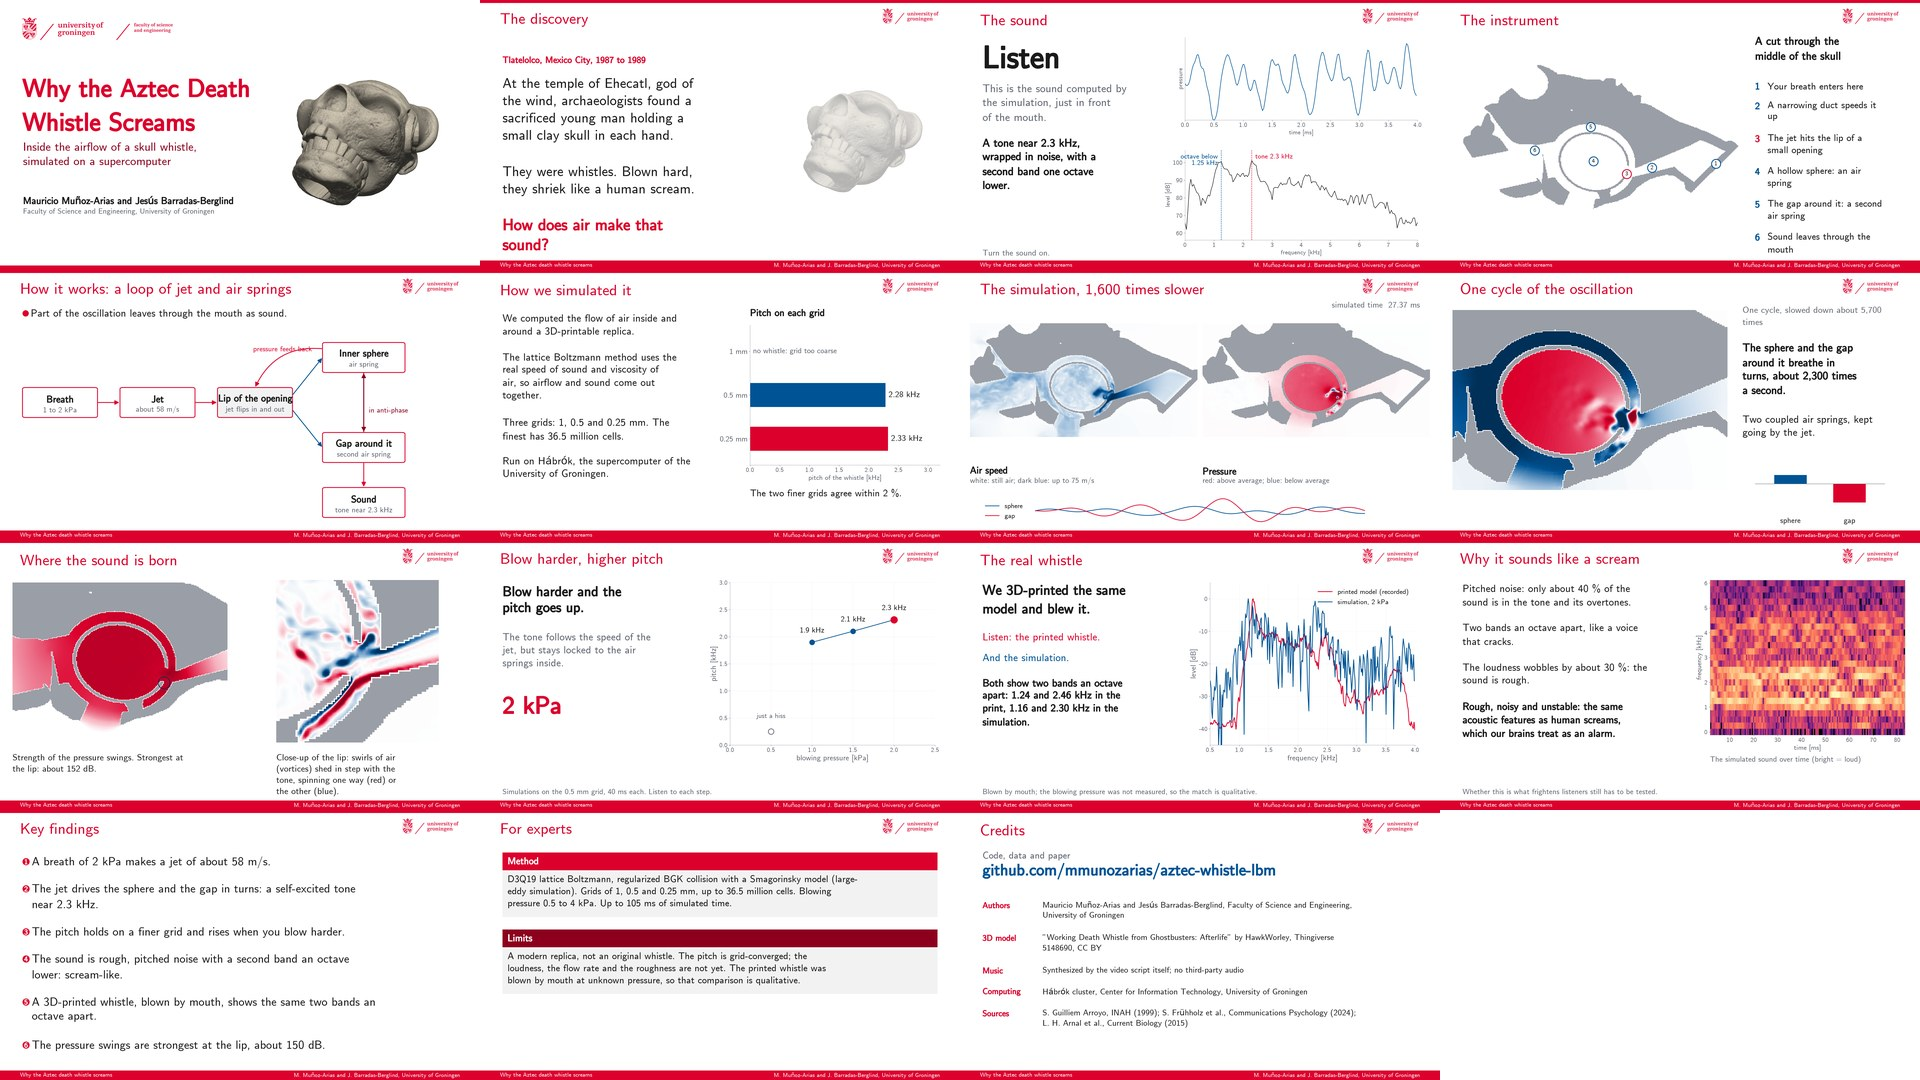
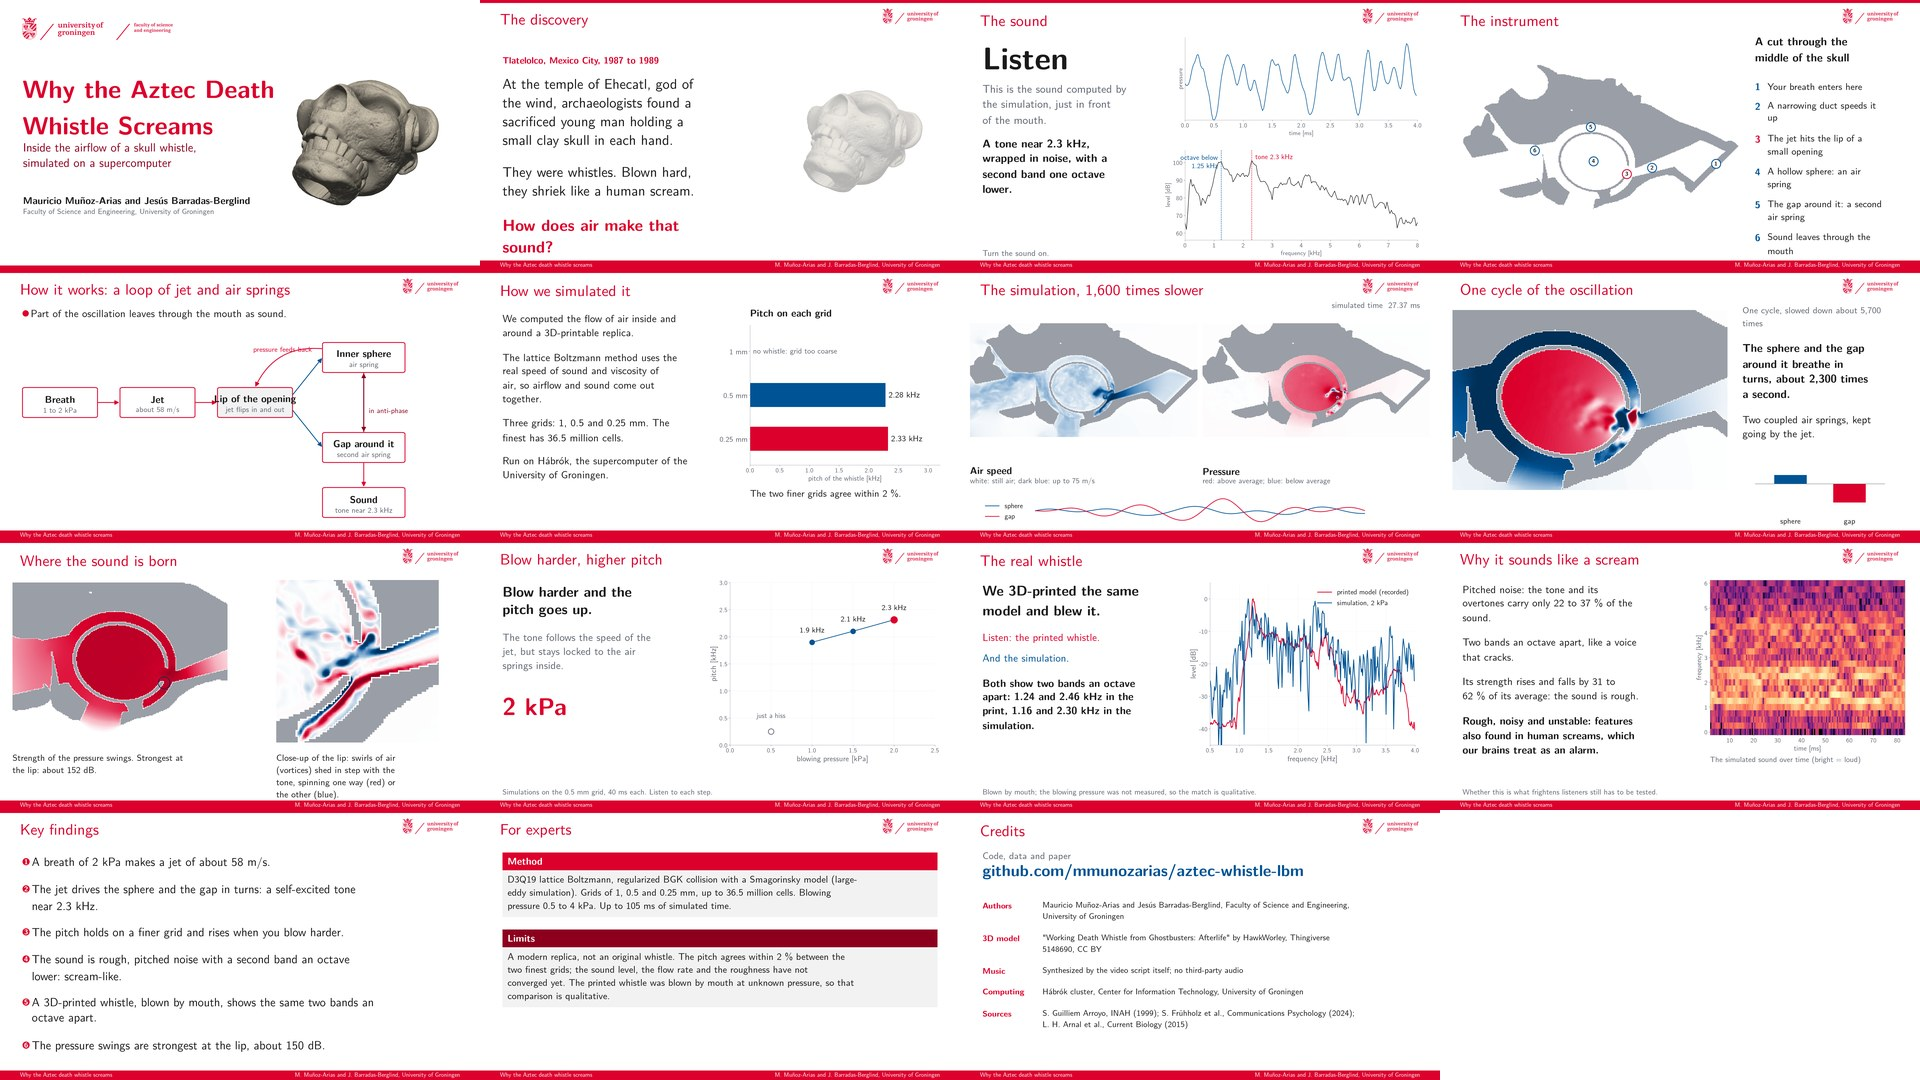
Stability-test options (plain BGK, Smagorinsky constant), video text as in the paper, font note
- code/src/02_simulate.py: --collision bgk|reg and --cs, defaults unchanged
- code/hpc/habrok_run.sh: SIMARGS passthrough
- code/video/make_video.py: sound-quality and limits text as in the paper, percent sign kept with its number
- README: how to run the stability tests of Section IV-B
- results/video: thumbnail and preview from the final render

diff --git a/code/src/02_simulate.py b/code/src/02_simulate.py
@@ -2,6 +2,7 @@
 
 Model
   * regularised BGK collision + Smagorinsky sub-grid model (Cs = 0.17)
+    (--collision bgk and --cs switch these off, for the stability test of plain BGK)
   * molecular viscosity of air (1.5e-5 m2/s), speed of sound 343 m/s, rho 1.2 kg/m3
   * lattice speed of sound mapped to the real one, so Mach number and acoustics are physical
   * pressure inlet inside the sealed mouthpiece, ramped to --dp over 0.5 ms
@@ -16,15 +17,18 @@ ap.add_argument('--case', default='orig', choices=['orig', 'sealed'])
 ap.add_argument('--time', type=float, default=10e-3, help='simulated time [s]')
 ap.add_argument('--dp', type=float, default=2000.0, help='blowing pressure [Pa]')
 ap.add_argument('--workdir', default='out')
+ap.add_argument('--collision', default='reg', choices=['reg', 'bgk'],
+                help='reg: regularized BGK (all runs of the paper); bgk: plain BGK, for the stability test')
+ap.add_argument('--cs', type=float, default=0.17, help='Smagorinsky constant; 0 switches the eddy viscosity off')
 a = ap.parse_args()
 
 g = np.load(f'{a.workdir}/geom.npz'); solid = np.ascontiguousarray(g[a.case]); inlet = g['inlet']
 x, y, z = g['x'], g['y'], g['z']; dx = float(g['dx'])
 c_phys, rho0, cs, nu_air = 343.0, 1.2, 1 / np.sqrt(3), 1.5e-5
 dt = dx * 1e-3 * cs / c_phys; ufac = c_phys / cs; pfac = rho0 * c_phys**2
-tau0 = 0.5 + 3 * nu_air * dt / (dx * 1e-3)**2; Csm = 0.17
+tau0 = 0.5 + 3 * nu_air * dt / (dx * 1e-3)**2; Csm = a.cs; BGK = a.collision == 'bgk'
 drho = a.dp / pfac; nsteps = int(a.time / dt); ramp = int(0.5e-3 / dt); save_every = max(1, round(21e-6 / dt))
-print(f'{a.case}: grid {solid.shape}, dt={dt:.3e} s, {nsteps} steps, tau0={tau0:.6f}', flush=True)
+print(f'{a.case}: grid {solid.shape}, dt={dt:.3e} s, {nsteps} steps, tau0={tau0:.6f}, collision={a.collision}, Cs={Csm}', flush=True)
 
 c = np.array([[0,0,0],[1,0,0],[-1,0,0],[0,1,0],[0,-1,0],[0,0,1],[0,0,-1],[1,1,0],[-1,-1,0],[1,-1,0],[-1,1,0],
               [1,0,1],[-1,0,-1],[1,0,-1],[-1,0,1],[0,1,1],[0,-1,-1],[0,1,-1],[0,-1,1]])
@@ -43,7 +47,7 @@ sp_visc = np.float32(0.5 * (DX_REF / dx)**2)     # extra tau = sp_visc * sponge 
 print(f'sponge: {sp} cells = {sp*dx:.1f} mm, peak strength {sponge.max():.3f}, extra-tau factor {sp_visc:.3f}', flush=True)
 
 @nb.njit(parallel=True, fastmath=True, cache=True)
-def step(f, fn, solid, inlet, sponge, sp_visc, rho_in, rho, ux, uy, uz, tau0, Csm):
+def step(f, fn, solid, inlet, sponge, sp_visc, rho_in, rho, ux, uy, uz, tau0, Csm, bgk):
     NX, NY, NZ = solid.shape
     for i in nb.prange(NX):
         fl = np.empty(19, np.float32); feq = np.empty(19, np.float32)
@@ -76,10 +80,14 @@ def step(f, fn, solid, inlet, sponge, sp_visc, rho_in, rho, ux, uy, uz, tau0, Cs
                 te = 0.5*(tau0 + np.sqrt(tau0*tau0 + 18*np.sqrt(2.0)*Csm*Csm*Q/r)) + sg*sp_visc   # Smagorinsky + sponge viscosity
                 om = 1 - 1/te
                 if isin: om = 0.0
-                for q in range(19):                                   # regularised collision
-                    aa = cx[q]*cx[q]-1/3; bb = cy[q]*cy[q]-1/3; cc = cz[q]*cz[q]-1/3
-                    f1 = w[q]*4.5*(aa*Pxx + bb*Pyy + cc*Pzz + 2*(cx[q]*cy[q]*Pxy + cx[q]*cz[q]*Pxz + cy[q]*cz[q]*Pyz))
-                    fn[q, i, j, k] = feq[q] + om*f1
+                if bgk:
+                    for q in range(19):                               # plain BGK collision (stability test only)
+                        fn[q, i, j, k] = feq[q] + om*(fl[q] - feq[q])
+                else:
+                    for q in range(19):                               # regularised collision
+                        aa = cx[q]*cx[q]-1/3; bb = cy[q]*cy[q]-1/3; cc = cz[q]*cz[q]-1/3
+                        f1 = w[q]*4.5*(aa*Pxx + bb*Pyy + cc*Pzz + 2*(cx[q]*cy[q]*Pxy + cx[q]*cz[q]*Pxz + cy[q]*cz[q]*Pyz))
+                        fn[q, i, j, k] = feq[q] + om*f1
                 rho[i, j, k] = r; ux[i, j, k] = u; uy[i, j, k] = v; uz[i, j, k] = ww
 
 f = np.empty((19,) + solid.shape, np.float32); f[:] = w[:, None, None, None]; fn = f.copy()
@@ -105,7 +113,7 @@ def save(nmax):
         x=x, y=y, z=z, names=np.array(list(P.keys())), dp=a.dp)
 for s_ in range(nsteps):
     rin = np.float32(1 + drho * min(1.0, s_ / ramp))
-    step(f, fn, solid, inlet, sponge, sp_visc, rin, rho, ux, uy, uz, np.float32(tau0), np.float32(Csm)); f, fn = fn, f
+    step(f, fn, solid, inlet, sponge, sp_visc, rin, rho, ux, uy, uz, np.float32(tau0), np.float32(Csm), BGK); f, fn = fn, f
     for q, v in enumerate(P.values()): hist[s_, q] = (rho[v] - 1) * pfac          # Pa above ambient
     hist[s_, -1] = (ux[ii]*nin[0] + uy[ii]*nin[1] + uz[ii]*nin[2]).sum() * ufac * (dx*1e-3)**2 * 1e3  # duct flow [L/s]
     if s_ % save_every == 0:

diff --git a/code/video/make_video.py b/code/video/make_video.py
@@ -105,6 +105,7 @@ def nl(s, wrap): return len(textwrap.wrap(s, wrap)) if wrap else s.count('\n') +
 def T(fig, x, y, s, size=30, color=FG, weight='normal', wrap=None, ha='left', va='top', alpha=1.0, **kw):
     """Text at pixel position (x, y) of a 1920x1080 frame, measured from the top left."""
     if wrap: s = '\n'.join(textwrap.fill(p, wrap) for p in s.split('\n'))
+    s = s.replace(' ', ' ')   # no-break space only steers the wrapping; Latin Modern draws it wider than a space
     if weight == 'bold' and not REAL_BOLD:
         kw.setdefault('path_effects', [pe.withStroke(linewidth=max(0.6, size * 0.045) * A.scale, foreground=color)]); weight = 'normal'
     return fig.text(x / 1920, 1 - y / 1080, s, fontsize=size, color=color, fontweight=weight, ha=ha, va=va, alpha=alpha,
@@ -493,7 +494,7 @@ def s05_method(mv):
         ax.set_xlabel('pitch of the whistle [kHz]', fontsize=20); [ax.spines[k].set_visible(False) for k in ('top', 'right')]
         T(fig, 1080, 150, 'Pitch on each grid', 28, FG, 'bold')
         if nb >= 3 and grid[1][1] and grid[2][1]:
-            TB(fig, 1080, 870, f'The two finer grids agree within {abs(grid[2][1]-grid[1][1])/grid[2][1]*100:.0f} %.', 28, FG, width=760)
+            TB(fig, 1080, 870, f'The two finer grids agree within {abs(grid[2][1]-grid[1][1])/grid[2][1]*100:.0f}\u00a0%.', 28, FG, width=760)
         img = grab(fig); plt.close(fig); return img
     st = [draw(n, nb) for n, nb in [(0, 0), (1, 0), (2, 0), (3, 1), (3, 2), (3, 3), (4, 3)]]
     scene(mv, 17, st, [0, 0.5, 3.0, 6.5, 8.0, 9.5, 12.5], name='Method')
@@ -653,10 +654,10 @@ def s10_scary(mv):
     dur = 19; mv.sound(loop(SND_MAIN, dur - 1.5), mv.t + 1.0, GAIN)
     x = SND_MAIN; nper = int(0.004 * SR); fs_, ts_, Sg = spectrogram(x, fs=SR, nperseg=nper, noverlap=nper * 7 // 8); keep = fs_ <= 6000
     Ld = 10 * np.log10(Sg[keep] + 1e-20)
-    pts = [f'Pitched noise: only about {round(tonal*100, -1):.0f} % of the sound is in the tone and its overtones.',
+    pts = ['Pitched noise: the tone and its overtones carry only 22 to 37\u00a0% of the sound.',
            'Two bands an octave apart, like a voice that cracks.',
-           f'The loudness wobbles by about {round(env*100, -1):.0f} %: the sound is rough.',
-           'Rough, noisy and unstable: the same acoustic features as human screams, which our brains treat as an alarm.']
+           'Its strength rises and falls by 31 to 62\u00a0% of its average: the sound is rough.',
+           'Rough, noisy and unstable: features also found in human screams, which our brains treat as an alarm.']
     def draw(n):
         fig = new_fig(); header(fig, 10, 'Why it sounds like a scream')
         ax = AX(fig, 1080, 160, 780, 620); ax.pcolormesh(ts_ * 1e3, fs_[keep] / 1e3, Ld, shading='auto', cmap='magma', vmin=Ld.max() - 45, vmax=Ld.max(), rasterized=True)
@@ -693,8 +694,8 @@ def s12_experts(mv):
                         f'Grids of 1, 0.5 and 0.25 mm, up to {ncell/1e6:.1f} million cells. Blowing pressure 0.5 to 4 kPa. '
                         'Up to 105 ms of simulated time.', 28) + 50
         if n:
-            tile(fig, 90, yy, 1740, 'Limits', 'A modern replica, not an original whistle. The pitch is grid-converged; the loudness, the flow rate '
-                            'and the roughness are not yet. The printed whistle was blown by mouth at unknown pressure, '
+            tile(fig, 90, yy, 1740, 'Limits', 'A modern replica, not an original whistle. The pitch agrees within 2\u00a0% between the two finest grids; the sound level, '
+                            'the flow rate and the roughness have not converged yet. The printed whistle was blown by mouth at unknown pressure, '
                             'so that comparison is qualitative.', 28, red=False)
         img = grab(fig); plt.close(fig); return img
     scene(mv, 13, [draw(0), draw(1)], [0, 5.0], name='Experts')

diff --git a/README.md b/README.md
@@ -67,6 +67,16 @@ Each run writes `runs/dx<DX>_dp<DP><TAG>/res_<case>.npz`. The paper uses grids o
 
 The job scripts load the Hábrók modules and a virtual environment at `~/venvs/whistle`; adapt those lines to your cluster.
 
+**Stability tests (Section IV-B of the paper).** `02_simulate.py` takes `--collision bgk` (plain BGK instead of the regularized collision) and `--cs` (Smagorinsky constant; `--cs 0` switches the eddy viscosity off). The defaults are the settings of every run in the paper. The three test runs:
+
+```bash
+for v in "_bgk|--collision bgk --cs 0" "_bgk_smag|--collision bgk --cs 0.17" "_reg_nosmag|--collision reg --cs 0"; do
+  sbatch -c 16 --mem=8G -t 01:30:00 --export=ALL,CASE=orig,DX=0.5,DP=2000,T=20e-3,TAG="${v%%|*}",SIMARGS="${v#*|}" code/hpc/habrok_run.sh
+done
+```
+
+Without the eddy viscosity both collisions diverge within 2 ms; plain BGK with the eddy viscosity stays stable but does not produce the self-sustained tone.
+
 Instead of running the simulations, you can download the raw output of every run from Zenodo (DOI to be added) and unpack it into `runs/`.
 
 **Figures, numbers and tables** once the runs exist:

diff --git a/code/README.md b/code/README.md
@@ -20,6 +20,8 @@ Run the scripts from the repository root; each one lists its options with `--hel
 
 Probes: P1 sphere centre, P2 duct, P3 top of the gap, P4 exit toward the mouth, P5 near-mouth probe (less than 1 cm in front of the mouth).
 
+The video uses the Latin Modern Sans font (`lmsans10-regular.otf` and `lmsans10-bold.otf`, part of TeX Live and MiKTeX). Put them in `~/.local/share/fonts` or point `LMSANS_DIR` to them; without them the script falls back to `cmss10`, which lacks accented letters.
+
 The absorbing layer at the domain boundary is 6 mm thick on every grid. The 1 mm grid is too coarse for the whistle to oscillate; use it only to test the installation.
 
 Expected values for the reference runs are in [`../results/tables/`](../results/tables/) and [`../results/paper_figures/numbers.json`](../results/paper_figures/numbers.json).
